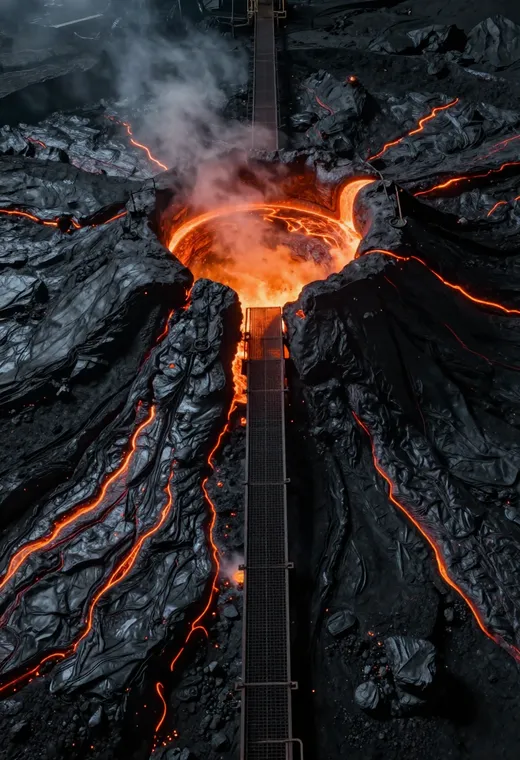
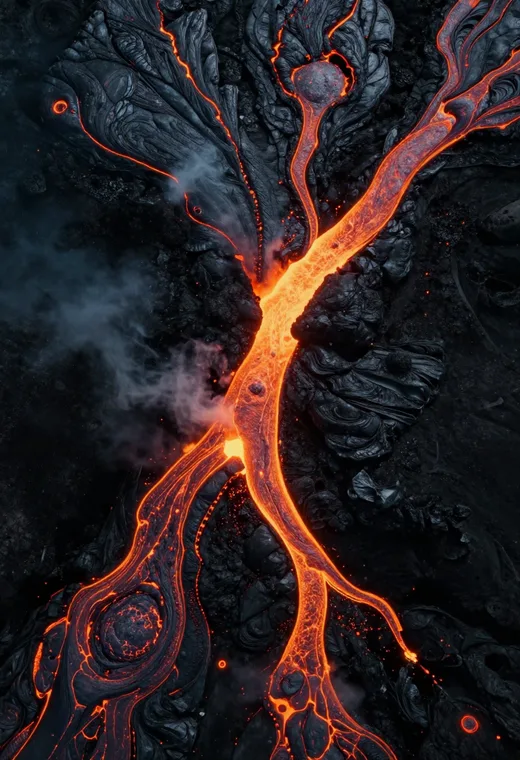
Lava map: new AI-painted lava river backdrop, gentle animated glow instead of procedural rivers

diff --git a/game.js b/game.js
@@ -538,19 +538,18 @@ function lavaFlow(bgi, time) {
     x.drawImage(bgi, (cv.width - bgi.naturalWidth * k) / 2, (cv.height - bgi.naturalHeight * k) / 2, bgi.naturalWidth * k, bgi.naturalHeight * k);
     let id; try { id = x.getImageData(0, 0, mw, mh); } catch (e) { LAVA = { key, off: 1 }; return; }
     const d = id.data;
-    for (let i = 0; i < d.length; i += 4) { const r = d[i], g = d[i + 1], bl = d[i + 2], hot = r > 140 && r > g * 1.25 && bl < 120 && g > 30; d[i + 3] = hot ? Math.min(230, (r - 130) * 1.6) : 0; if (hot) { d[i] = 255; d[i + 1] = Math.min(255, g * 1.3 + 40); d[i + 2] = Math.min(120, bl); } }
+    for (let i = 0; i < d.length; i += 4) { const r = d[i], g = d[i + 1], bl = d[i + 2], q = Math.max(0, Math.min(1, (r - 150) / 90)), org = Math.max(0, Math.min(1, (r * .85 - g) / 40)); d[i + 3] = bl < 140 ? Math.pow(q, 1.6) * org * 135 : 0; d[i + 1] = Math.min(190, g * 1.05); d[i + 2] = Math.min(50, bl); }
     x.putImageData(id, 0, 0);
     const t = document.createElement('canvas'); t.width = mw; t.height = mh;
     LAVA = { key, mask: c, tmp: t, ctx: t.getContext('2d'), mw, mh };
   }
-  lavaRivers(time);
   if (LAVA.off) return;
   const x = LAVA.ctx, w = LAVA.mw, h = LAVA.mh;
   x.globalCompositeOperation = 'source-over'; x.clearRect(0, 0, w, h); x.globalAlpha = .5 + .2 * Math.sin(time / 900); x.drawImage(LAVA.mask, 0, 0); x.globalAlpha = 1;
   x.globalCompositeOperation = 'source-atop';
   const band = (period, speed, col, a, slant) => { const o = (time * speed) % period; for (let y = -period + o; y < h + period; y += period) { const g = x.createLinearGradient(0, y, slant, y + period); g.addColorStop(0, 'rgba(255,200,80,0)'); g.addColorStop(.5, col); g.addColorStop(1, 'rgba(255,200,80,0)'); x.globalAlpha = a; x.fillStyle = g; x.fillRect(0, y, w, period); } x.globalAlpha = 1; };
   band(70, .018, 'rgba(255,235,150,1)', .95, 26); band(110, .011, 'rgba(255,150,40,1)', .8, -30); band(46, .03, 'rgba(255,255,220,1)', .55, 14);
-  ctx.save(); ctx.globalCompositeOperation = 'lighter'; ctx.imageSmoothingEnabled = true; ctx.imageSmoothingQuality = 'high'; ctx.globalAlpha = .6;
+  ctx.save(); ctx.globalCompositeOperation = 'lighter'; ctx.imageSmoothingEnabled = true; ctx.imageSmoothingQuality = 'high'; ctx.globalAlpha = .55;
   const k2 = 1.05, dx = Math.sin(time / 9000) * 7, dy = Math.cos(time / 11000) * 7; ctx.drawImage(LAVA.tmp, dx, dy, cv.width, cv.height);
   ctx.globalAlpha = .2 + .08 * Math.sin(time / 600); ctx.drawImage(LAVA.tmp, dx - 5, dy - 5, cv.width + 10, cv.height + 10);
   ctx.restore();
@@ -787,7 +786,7 @@ function endGame(win) { crumb('end ' + (win ? 'WIN' : 'LOSS') + ' wave ' + G.wav
 }
 
 /* ---------- drawing ---------- */
-const ART_V = '1792576127';
+const ART_V = '1792576704';
 const IM = {};
 ['bg_1','bg_2','bg_3','bg_4','bg_5','lane_1','lane_2','lane_3','lane_4','lane_5','p_pad','p_core','e_icebreaker','u_planet_glacier','u_mira','e_magmabreaker','bg_5','lane_5','u_bruck'].concat(Object.keys(ENEMY).map(t => 'e_' + t), KINDS.filter(k => k !== 'beam' && k !== 'fire').flatMap(k => [1,2,3,4].map(n => 't_' + k + '_' + n)), ['pulse','rail','missile','flak','beam','fire'].flatMap(k => [1,2,3,4].map(n => 'h_' + k + '_' + n))).forEach(n => { const i = new Image(); i.src = 'art/' + n + '.webp?v=' + ART_V; IM[n] = i; });
 const spr = n => { const i = IM[n]; return i && i.complete && i.naturalWidth ? i : null; };

diff --git a/index.html b/index.html
@@ -290,7 +290,7 @@ html,body,button,input{font-family:Rajdhani,system-ui,-apple-system,"Segoe UI",R
   <button class="btn alt" id="sClose">Close</button>
 </div></div>
 
-<script src="sfx.js?v=1792576127"></script>
-<script src="game.js?v=1792576127"></script>
+<script src="sfx.js?v=1792576704"></script>
+<script src="game.js?v=1792576704"></script>
 </body>
 </html>
